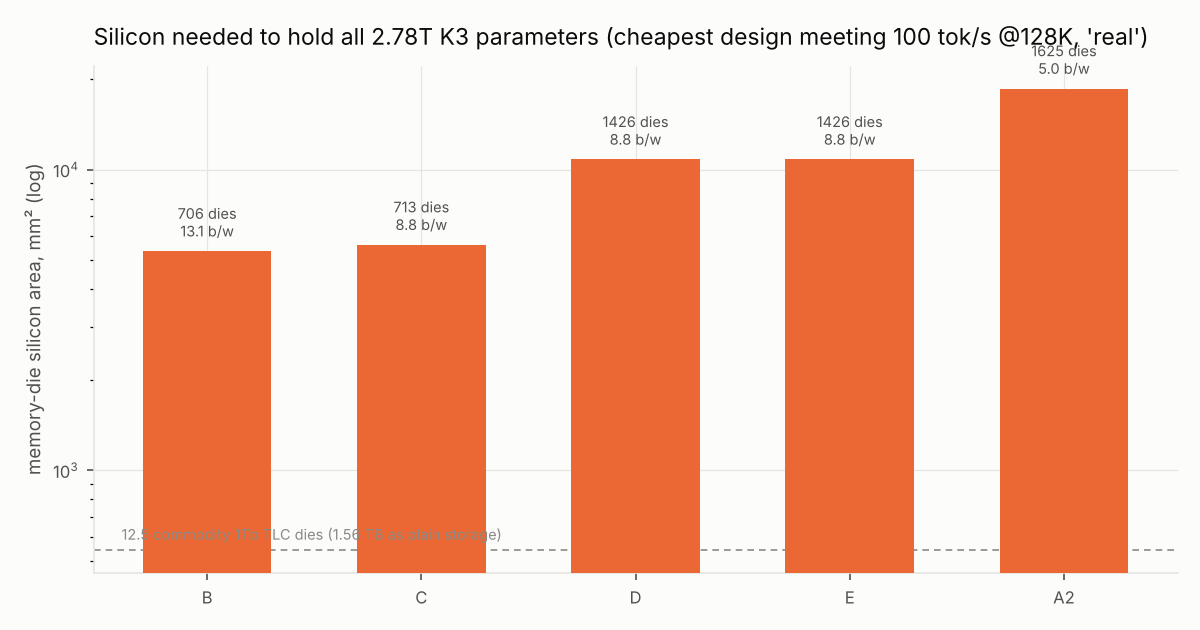
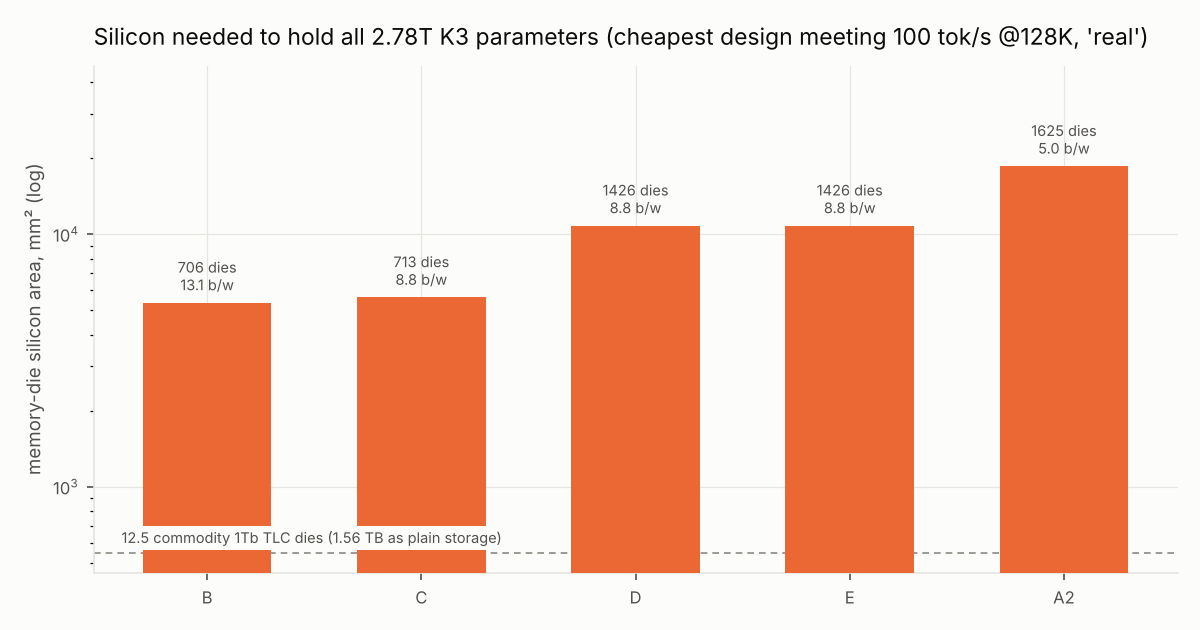
README headline results, noise-propagation subset/merge options, plot fixes
Claude-Session: https://claude.ai/code/session_01Y214a7vNyNMnKX2pLE6tAJ

diff --git a/scripts/noise_propagation.py b/scripts/noise_propagation.py
@@ -42,6 +42,12 @@ def main():
         cases += [(f"noise_experts_only_r{r}", "experts", r), (f"noise_all_linears_r{r}", "all", r)]
     if "--quick" in sys.argv:
         cases = cases[:3]
+    out_path = OUT
+    if "--only" in sys.argv:          # run a subset (e.g. in parallel processes), merged with --merge
+        keep = sys.argv[sys.argv.index("--only") + 1].split(",")
+        cases = [c for c in cases if c[0] in keep]
+    if "--out" in sys.argv:
+        out_path = sys.argv[sys.argv.index("--out") + 1]
     for name, mode, r in cases:
         rng = np.random.default_rng(1234)
         state = {"in_expert": False}
@@ -87,11 +93,31 @@ def main():
         rows.append(row)
         print(row, flush=True)
         keys = list(rows[0].keys())
-        with open(OUT, "w", newline="") as f:
+        with open(out_path, "w", newline="") as f:
             w = csv.DictWriter(f, fieldnames=keys)
             w.writeheader()
             w.writerows(rows)
 
 
+def merge(paths):
+    """Merge partial CSVs (from --only/--out runs) into results/noise_propagation.csv in canonical case order."""
+    order = ["mxfp8_inputs_all_linears"] + [f"noise_{m}_r{r}" for r in (0.005, 0.01, 0.02, 0.04, 0.08)
+                                            for m in ("experts_only", "all_linears")]
+    rows = {}
+    for pth in paths:
+        if os.path.exists(pth):
+            for r in csv.DictReader(open(pth)):
+                rows[r["case"]] = r
+    out = [rows[c] for c in order if c in rows]
+    with open(OUT, "w", newline="") as f:
+        w = csv.DictWriter(f, fieldnames=list(out[0].keys()))
+        w.writeheader()
+        w.writerows(out)
+    print("merged", len(out), "cases into", OUT)
+
+
 if __name__ == "__main__":
-    main()
+    if "--merge" in sys.argv:
+        merge(sys.argv[sys.argv.index("--merge") + 1:])
+    else:
+        main()

diff --git a/scripts/make_plots.py b/scripts/make_plots.py
@@ -251,10 +251,12 @@ def plot_capacity(cost):
         ax.text(i, f(r["total_mm2"]) * 1.12, f"{int(float(r['dies']))} dies\n{f(r['effective_bits_per_weight']):.1f} b/w",
                 ha="center", fontsize=7, color=INK2)
     ax.axhline(1522 * 43.54 / 1522 * 12.5, color=MUTED, linewidth=0.8, linestyle=(0, (4, 3)))
-    ax.text(-0.4, 1522 * 43.54 / 1522 * 12.5 * 1.08, "12.5 commodity 1Tb TLC dies (1.56 TB as plain storage)", fontsize=7, color=MUTED)
+    ax.text(-0.4, 1522 * 43.54 / 1522 * 12.5 * 1.1, "12.5 commodity 1Tb TLC dies (1.56 TB as plain storage)", fontsize=7,
+            color=INK2, zorder=5, bbox=dict(facecolor=SURFACE, edgecolor="none", pad=1.5))
     ax.set_xticks(xs)
     ax.set_xticklabels([r["arch_id"] for r in uniq], fontsize=8)
     ax.set_yscale("log")
+    ax.set_ylim(top=max(f(r["total_mm2"]) for r in uniq) * 2.5)
     fig.tight_layout()
     fig.savefig(os.path.join(PLOTS, "capacity_area.png"), dpi=150)
     plt.close(fig)

diff --git a/data/sim_outputs/neurosim/README.md b/data/sim_outputs/neurosim/README.md
@@ -39,10 +39,17 @@ curl -L -o .../hf_cifar10/test-00000-of-00001.parquet https://huggingface.co/dat
 python -I tools/make_cifar_npz.py <parquet> /home/user/ext/datasets/hf_cifar10/cifar10_test_uint8.npz
 # CPU patch to the wrapper (see §3)
 sed -i "s/device='cuda')/device=remainderQ.device)/" Inference_pytorch/modules/quantization_cpu_np_infer.py
-# Table VII baseline (§4): per config, Param.cpp knobs via tools/set_param.py, make, then in a per-config copy of Inference_pytorch/:
-python tools/run_wrapper.py --threads 2 --n_images 1 --dataset cifar10 --model VGG8 --mode WAGE --inference 1 \
+# Table VII baseline (§4): per config, Param.cpp knobs via tools/set_param.py + make in a per-config copy
+# /home/user/ext/wrap_copies/<tag>/ of Inference_pytorch/, then in that copy:
+python tools/run_wrapper.py --threads 2 --n_images 1 --dataset cifar10 --model VGG8 --mode WAGE --inference {1|0} \
        --cellBit 1 --subArray 128 --parallelRead {32|64} --ADCprecision 4 --onoffratio {17|inf} --batch_size 1
 #   (inference.py then runs ./NeuroSIM/main NetWork_VGG8.csv 8 8 128 {32|64} <16 trace files> itself)
+#   --inference 1: rram22_pr64, rram22_pr32, sram22_pr32 started; none finished (see §4)
+bash tools/run_baseline_ideal_traces.sh /home/user/ext/NeuroSim_V1.4 /home/user/ext/venv_neurosim/bin/python .   # --inference 0, all 8 rows
+bash tools/run_baseline_oldcode.sh /home/user/ext/NeuroSim_V1.4 . _inf0       # same traces, C++ of commit 6a6073d
+bash tools/run_baseline_hybrid.sh /home/user/ext . rram22_pr64                 # faithful conv traces + ideal FC traces
+python3 tools/parse_baseline.py logs/baseline baseline_reproduction.csv
+# RRAM 7 nm guard check (§6) -> logs/rram_7nm_guard_check.log
 # per-subarray sweep (§5): driver build + 660 configurations
 python3 tools/sweep.py --build /home/user/ext/neurosim_driver_build --pristine /home/user/ext/Param.cpp.pristine --out .
 python3 tools/sweep.py ... --collect-only          # regenerate CSVs from logs/sweep/*.log
@@ -50,9 +57,10 @@ python3 tools/sweep.py ... --collect-only          # regenerate CSVs from logs/s
 bash tools/crosscheck_main.sh /home/user/ext/neurosim_driver_build /home/user/ext/Param.cpp.pristine /home/user/ext/NeuroSim_V1.4 .
 ```
 
-`run_neurosim_sweep.sh` repeats all of this from scratch (`--with-baseline` adds the slow Table VII runs).
-One attempted RRAM-pr32 wrapper run with 4 torch threads thrashed on the shared CPU and was aborted by me
-after 18 min (`logs/baseline/rram22_pr32_ABORTED_4threads.log`); it was rerun with 2 threads.
+`run_neurosim_sweep.sh` repeats all of this from scratch (`--with-baseline` adds the ideal-trace and old-code Table VII
+runs, `--with-baseline-faithful` also the multi-hour `--inference 1` runs). One RRAM-pr32 `--inference 1` run with 4 torch
+threads thrashed on the shared CPU and was aborted after 18 min (`logs/baseline/rram22_pr32_ABORTED_4threads.log`); the
+restarted 2-thread runs are documented in §4.
 
 ## 3. Source modifications
 
@@ -82,7 +90,7 @@ Note the shipped `Param.cpp` default is **SRAM** (`memcelltype = 1`) with a 5-bi
 effects with thousands of full-size masked convolutions per layer. One test image (all that the C++ trace hook uses —
 `utee/hook.py` records image #1 of batch #1) took ~50 min through conv layer 6 at parallelRead=64 (05:59→06:48)
 and then >70 min inside the 8192×1024 FC layer; parallelRead=32 is ~2× slower,
-so every `--inference 1` run hit the 2-hour background-task limit (RRAM pr64: killed in the FC layer after all 12
+so no `--inference 1` run could finish within the 2-hour background-task limit (RRAM pr64: killed in the FC layer after all 12
 conv-layer traces were written; RRAM pr32 and SRAM pr32: stopped by me when they could no longer finish; logs
 `logs/baseline/*_STOPPED.log`, `*_ABORTED_4threads.log`). Therefore:
 
@@ -129,7 +137,7 @@ clock period, pipeline cycle, energies, FPS, memory utilisation and run times ar
 * **Throughput (TOPS)** is +4-5 % (SRAM 5/1 nm) to +15-27 % (22 nm) higher than published.
 * **Energy efficiency (TOPS/W)** is systematically higher, +27 % to +86 %. Changes made after the table date are in all
   available code, e.g. the "122923 update" in ProcessingUnit.cpp:682 (Additional Update Note v3: "always turn off unused
-  rows to further save dynamic energy") and the 230920/231030 buffer/latency fixes; these are a plausible but **unverified**
+  rows to further save dynamic energy") and the 231030 Buffer.cpp fix ("cap_draintotal added twice"); these are a plausible but **unverified**
   explanation (no code from 9/2023 is available to test).
 * **Accuracy** (71 %/43 % RRAM, 77 %/59 % SRAM in Table VII): not reproduced (CPU-infeasible).
 
@@ -339,8 +347,9 @@ temperature ≠ 300 K (≥22 nm only).
 | `run_neurosim_sweep.sh` | rebuild from scratch + regenerate the sweep CSVs (`--with-baseline`, `--quick`) |
 | `tools/subarray_driver.cpp` | single-subarray MVM driver (links unmodified NeuroSim objects) |
 | `tools/sweep.py`, `tools/set_param.py` | sweep orchestration / Param.cpp knob rewriting |
-| `tools/run_baseline.sh`, `tools/run_wrapper.py`, `tools/parse_baseline.py`, `tools/make_cifar_npz.py` | Table VII reproduction |
+| `tools/run_baseline.sh` (faithful `--inference 1`), `tools/run_baseline_ideal_traces.sh`, `tools/run_baseline_oldcode.sh`, `tools/run_baseline_hybrid.sh`, `tools/run_wrapper.py`, `tools/parse_baseline.py`, `tools/make_cifar_npz.py` | Table VII reproduction |
 | `tools/crosscheck_main.sh` | driver vs stock main.cpp cross-check |
 | `logs/sweep/*.log` | stdout of all 660 driver runs (knobs, command, full SubArray module report, RESULT_JSON) |
-| `logs/baseline/*.log` | stdout of the wrapper + stock NeuroSim runs, per-config build logs |
+| `logs/baseline/*.log` | stdout of every wrapper / stock NeuroSim run (`<tag>.log` = HEAD + `--inference 1`, `_inf0` = ideal traces, `_code6a6073d` = original-upload C++, `_hyb` = hybrid traces, `_STOPPED`/`_ABORTED` = incomplete runs), per-config build logs |
+| `logs/rram_7nm_guard_check.log` | stock `main` and driver refusing RRAM at 7 nm |
 | `logs/build_stock_neurosim.log`, `logs/crosscheck_driver_vs_main.log`, `logs/sweep_*.log` | build / cross-check / sweep summaries |

diff --git a/README.md b/README.md
@@ -9,6 +9,17 @@ compute architectures, compared with GPUs.
 [`results/first_principles.md`](results/first_principles.md) ·
 [`results/workload.md`](results/workload.md) · [`results/gpu_comparison.md`](results/gpu_comparison.md)
 
+## Headline results (details and caveats in `results/final_verdict.md`)
+
+| question | answer (realistic scenario, volume silicon at normalized prices, packaging unknown) |
+|---|---|
+| Commodity NAND (digital or analog on commodity planes)? | 0.2-25 tok/s: the commodity plane's 10-50 µs access sits on a 698-deep dependency chain |
+| Redesigned small-plane analog 3D NAND + attention engine, 128K context | 100 tok/s for ~$880; 500 tok/s for $1,477 (marginal precision) / $2,182 (within budget); ~1,000 tok/s only with optimistic array physics |
+| 1M context at 500 tok/s | infeasible in every scenario (2.6 PFLOP/s + 7-15 TB/s of attention) |
+| Accuracy on real K3 tensors | 1-2-bit cells + calibrated unit-LSB ADC reproduce exact integer sums under SONOS-class noise; 4-bit cells need ~4x tighter programming; no 3D-NAND string measurement exists |
+| Under $500? | only at 32K context with three unproven levers; ~$850 floor at 128K (attention engine ~$430) |
+| GPU reference | 101 tok/s measured on 8x B300 (188 with speculation); ~330 tok/s software ceiling; 28-34 J/token vs 0.3-0.7 J/token for the CIM designs |
+
 ## What is in here
 
 | path | content |
